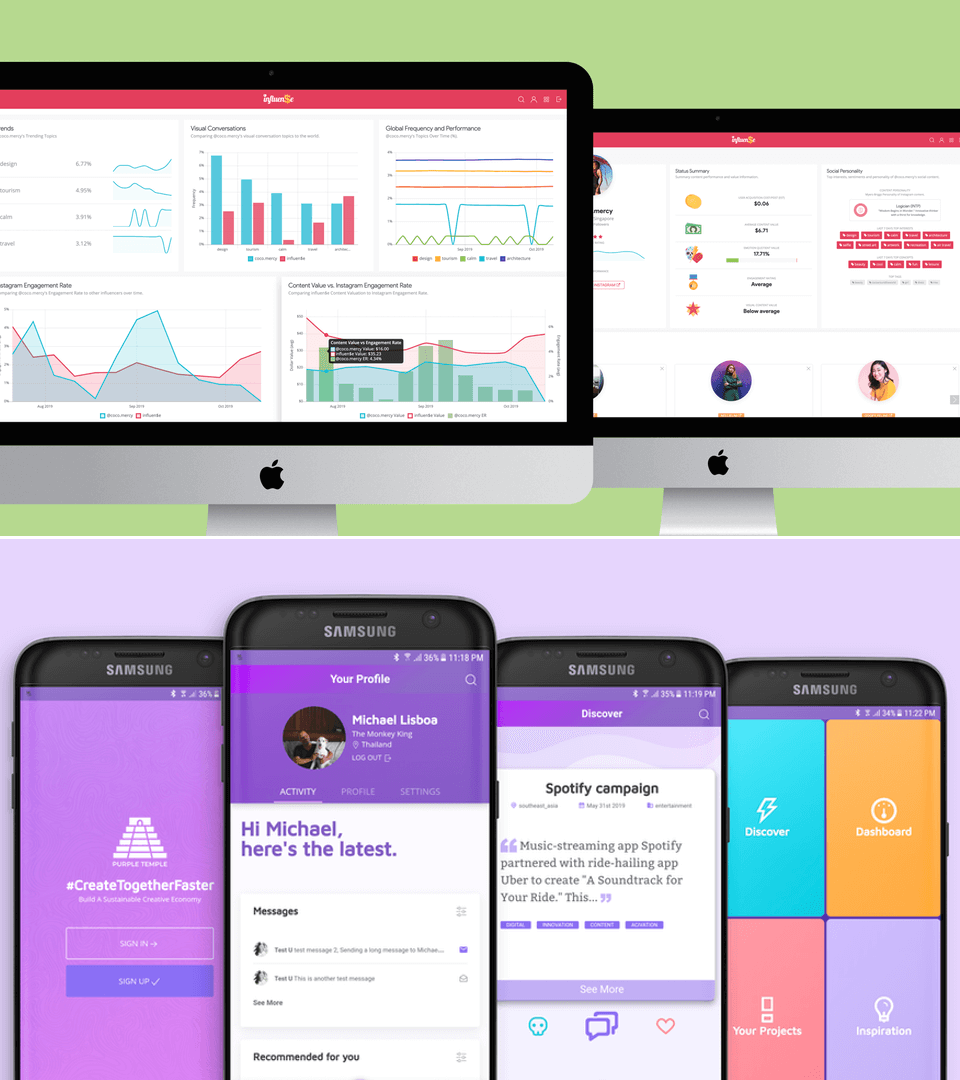
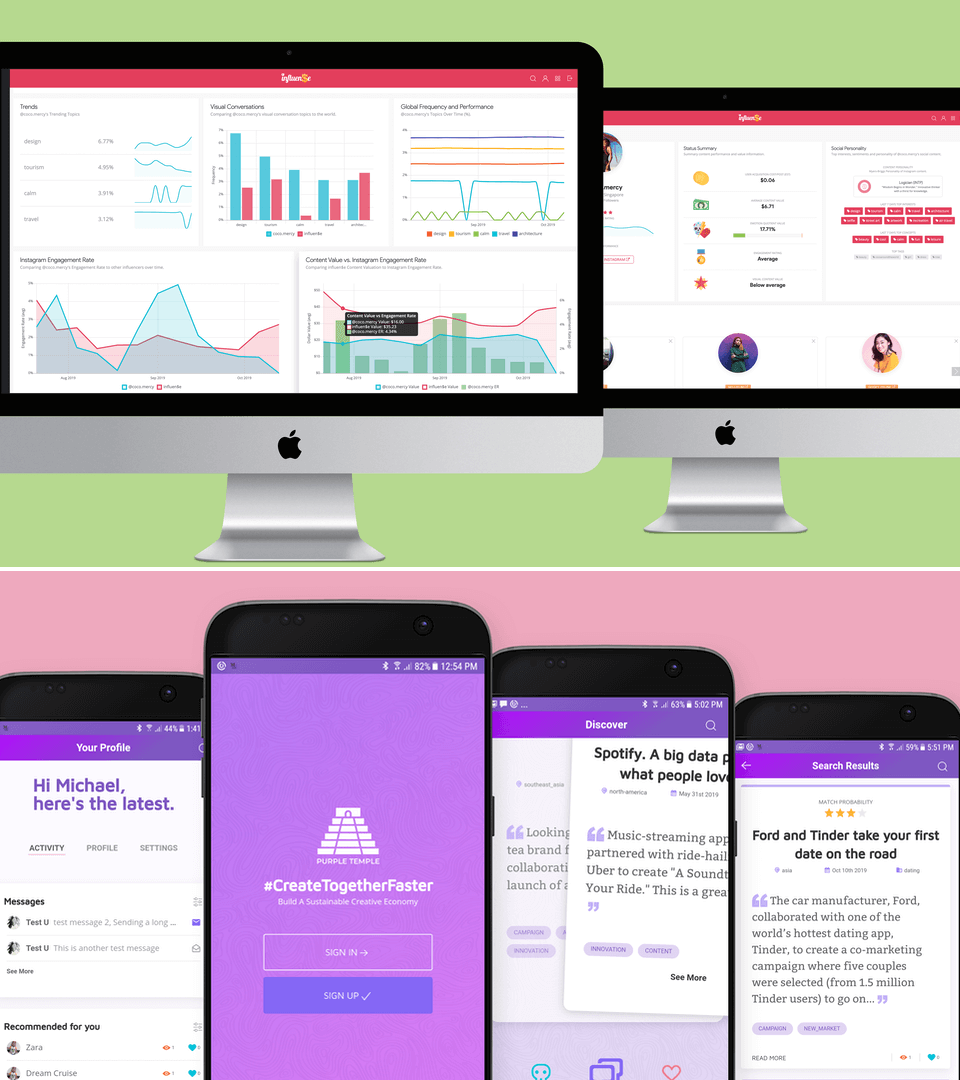
fix margins and hero graphic

diff --git a/src/components/presentation/SkillsList.js b/src/components/presentation/SkillsList.js
@@ -5,13 +5,6 @@ const SkillsList = props =>
         <h3 className="uk-margin-bottom">Agency Experience</h3>
         <div className="uk-margin-medium-top">
             <h6 className="title uk-text-uppercase uk-margin-small-bottom">
-                <span className="uk-text-bold">Kizmo</span><br />
-                <small className="uk-text-muted">
-                    Technocreativeologist<br />Feb 2005&mdash;June 2018
-                </small>
-            </h6>
-
-            <h6 className="title uk-text-uppercase uk-margin-remove-top uk-margin-small-bottom">
                 <span className="uk-text-bold">Havas Worldwide</span><br />
                 <small className="uk-text-muted">
                     Regional Experience Director, Asia Pacific<br />May 2015&mdash;Mar 2016
@@ -19,7 +12,7 @@ const SkillsList = props =>
             </h6>
 
             <h6 className="title uk-text-uppercase uk-margin-remove-top uk-margin-small-bottom">
-                <span className="uk-text-bold">Publicis (contract)</span><br />
+                <span className="uk-text-bold">Publicis <span style={{fontWeight: "100", textTransform: "lowercase"}} className="uk-text-muted">(Contract)</span></span><br />
                 <small className="uk-text-muted">
                     Director of User Experience, Singapore<br />Feb 2015&mdash;June 2015
                 </small>
@@ -54,9 +47,16 @@ const SkillsList = props =>
             </h6>
 
             <h6 className="title uk-text-uppercase uk-margin-remove-top uk-margin-small-bottom">
-                <span className="uk-text-bold">Frog Design</span><br />
+                <span className="uk-text-bold">Frog Design <span style={{fontWeight: "100", textTransform: "lowercase"}} className="uk-text-muted">(Contract)</span></span><br />
                 <small className="uk-text-muted">
                     Lead Experience Designer, San Francisco<br />Dec 2005&mdash;Dec 2006
+                </small>
+            </h6>
+
+            <h6 className="title uk-text-uppercase uk-margin-remove-top uk-margin-small-bottom">
+                <span className="uk-text-bold">Kizmo</span><br />
+                <small className="uk-text-muted">
+                    Chief TechnoCreativeologist<br />Feb 2005&mdash;Present
                 </small>
             </h6>
         </div>

diff --git a/src/components/presentation/SkillsContent.js b/src/components/presentation/SkillsContent.js
@@ -4,9 +4,6 @@ import { Link } from 'react-router-dom'
 import UxImage from '../../images/skills-ux.png';
 import CreativeImage from '../../images/skills-creative.png';
 import CreativeTechImage from '../../images/skills-tech.png';
-import UxImageS from '../../images/user-experience-s.png';
-import CreativeImageS from '../../images/skills-creative.png';
-import CreativeTechImageS from '../../images/creative-technology-s.png';
 
 
 const UxMessage = () =>{
@@ -59,8 +56,8 @@ const CreativeMessage = () => {
                 Creative Direction &amp; Strategy
             </h4>
             <h5 className="uk-margin-remove">
-                Designer, Copywriter, Creative Director.<br />I've led teams&mdash;large and small&mdash;for some of the biggest
-                advertising agencies in the world.
+                Designer, Copywriter, Creative Director.<br />I've led teams&mdash;large and small&mdash;for some of the biggest <Link className="text-background text-background-indigo
+                    uk-link-reset uk-link uk-nowrap" to={'/resume'}>advertising agencies</Link> in the world.
             </h5>
             <p style={{fontSize: "0.7em"}} className="uk-h6 uk-text-uppercase uk-text-center uk-heading-line uk-margin-remove-top"><span>Case Studies</span></p>
             <ul className="case-study-list uk-list">
@@ -124,9 +121,9 @@ const CreativeTechMessage = () => {
                 </li>
                 <li>
                     <Link
-                        to="/portfolio/insead">
-                            Insead<br />
-                            <small>UX and full-stack development for Higher Education</small>&nbsp;
+                        to="/portfolio/influense-content-market-watch">
+                            Content Market Watch<br />
+                            <small>A Live Trading Platform for Visual Content</small>&nbsp;
                             <span data-uk-icon="icon: arrow-right; ratio: 0.7" />
                     </Link>
                 </li>

diff --git a/src/css/Main.css b/src/css/Main.css
@@ -167,6 +167,14 @@ h3.uk-section-title {
     margin-right: 0 !important;
   }
 
+  .uk-margin-right\@s {
+    margin-right: 20px !important;
+  }
+
+  .uk-margin-left\@s {
+    margin-left: 20px !important;
+  }
+
   .uk-margin-small-top\@s {
     margin-top: 10px !important;
   }
@@ -175,12 +183,28 @@ h3.uk-section-title {
     margin-bottom: 10px !important;
   }
 
+  .uk-margin-small-right\@s {
+    margin-right: 10px !important;
+  }
+
+  .uk-margin-small-left\@s {
+    margin-left: 10px !important;
+  }
+
   .uk-margin-medium-top\@s {
     margin-top: 40px !important;
   }
 
   .uk-margin-medium-bottom\@s {
     margin-bottom: 40px !important;
+  }
+
+  .uk-margin-medium-right\@s {
+    margin-right: 40px !important;
+  }
+
+  .uk-margin-medium-left\@s {
+    margin-left: 40px !important;
   }
 
   .uk-margin-large-top\@s {

diff --git a/src/components/PortfolioDetail.js b/src/components/PortfolioDetail.js
@@ -108,8 +108,8 @@ class PortfolioDetail extends Component {
                     {categories}
                 </div>
                 <div className="portfolio-detail uk-container uk-container-small uk-margin-large">
-                    <div className="uk-grid-small uk-width-1-1" data-uk-grid>
-                        <div className="uk-width-3-5@m">
+                    <div className="uk-grid-collapse uk-width-1-1" data-uk-grid>
+                        <div className="uk-width-3-5@m uk-margin-right@s">
                             {portfolioImages}
                         </div>
                         <div className="post-content uk-width-expand">

diff --git a/src/css/Portfolio.css b/src/css/Portfolio.css
@@ -46,3 +46,8 @@
   border-color: #ffae47;
   color: #eceff1 !important;
 }
+
+.contentEmbed {
+  margin-top: 0 !important;
+  border-style: none !important;
+}
